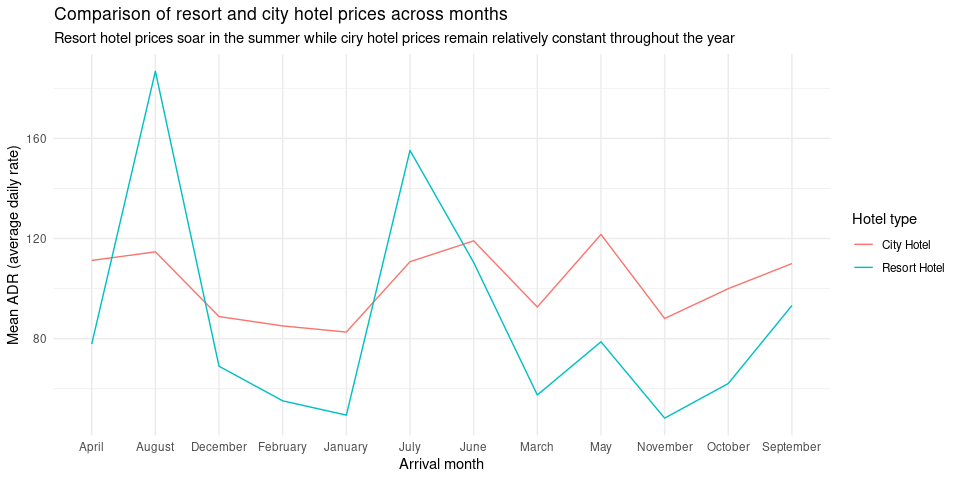
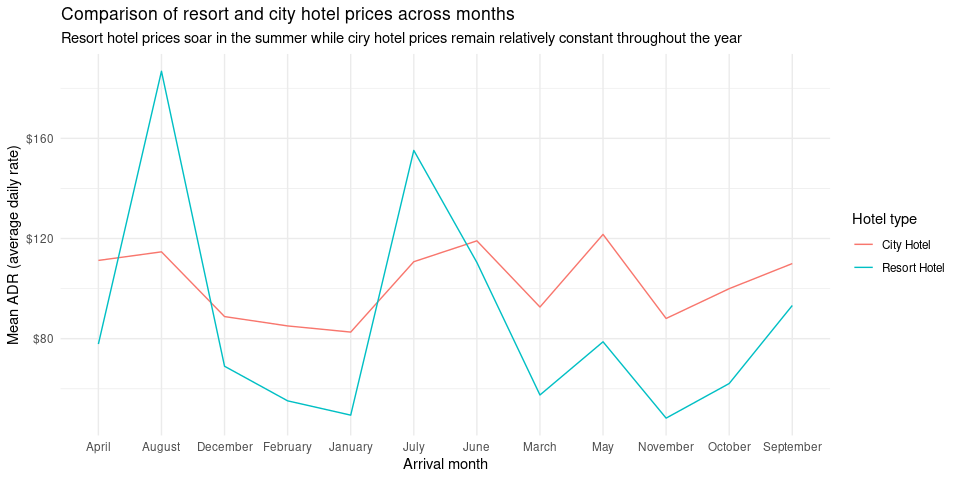
finish

diff --git a/hotels-forcats.md b/hotels-forcats.md
@@ -9,7 +9,7 @@ library(skimr)
 
 ``` r
 # From TidyTuesday: https://github.com/rfordatascience/tidytuesday/blob/master/data/2020/2020-02-11/readme.md
-hotels <- read_csv("https://raw.githubusercontent.com/rfordatascience/tidytuesday/master/data/2020/2020-02-11/hotels.csv")
+hotels <- read_csv("https://raw.githubusercontent.com/rfordatascience/tidytuesday/master/data/2020/2020-02-11/hotels.csv") 
 ```
 
 First, knit the document and view the following visualisation. How are
@@ -27,18 +27,25 @@ inspiration and help.
 
 ``` r
 hotels %>%
-  group_by(hotel, arrival_date_month) %>%   # group by hotel type and arrival month
-  summarise(mean_adr = mean(adr)) %>%       # calculate mean adr for each group
-  ggplot(aes(
-    x = arrival_date_month,                 # x-axis = arrival_date_month
+  group_by(hotel, arrival_date_month) %>%# group by hotel type and arrival month
+  mutate(arrival_date_month=fct_infreq(arrival_date_month))%>%
+   summarise(mean_adr = mean(adr)) %>%
+  # calculate mean adr for each group
+   mutate(arrival_date_month = fct_infreq(arrival_date_month))%>%
+
+   ggplot(mapping= aes(
+    x = arrival_date_month,                 #x-axiarrival_date_month
     y = mean_adr,                           # y-axis = mean_adr calculated above
     group = hotel,                          # group lines by hotel type
     color = hotel)                          # and color by hotel type
     ) +
-  geom_line() +                             # use lines to represent data
-  theme_minimal() +                         # use a minimal theme
+  geom_line() +       # use lines to represent data
+ scale_y_continuous(labels=scales::dollar_format())+
+  
+  
+   theme_minimal() +                         # use a minimal theme
   labs(x = "Arrival month",                 # customize labels
-       y = "Mean ADR (average daily rate)",
+       y = "Mean ADR (average daily rate)" , 
        title = "Comparison of resort and city hotel prices across months",
        subtitle = "Resort hotel prices soar in the summer while ciry hotel prices remain relatively constant throughout the year",
        color = "Hotel type")
